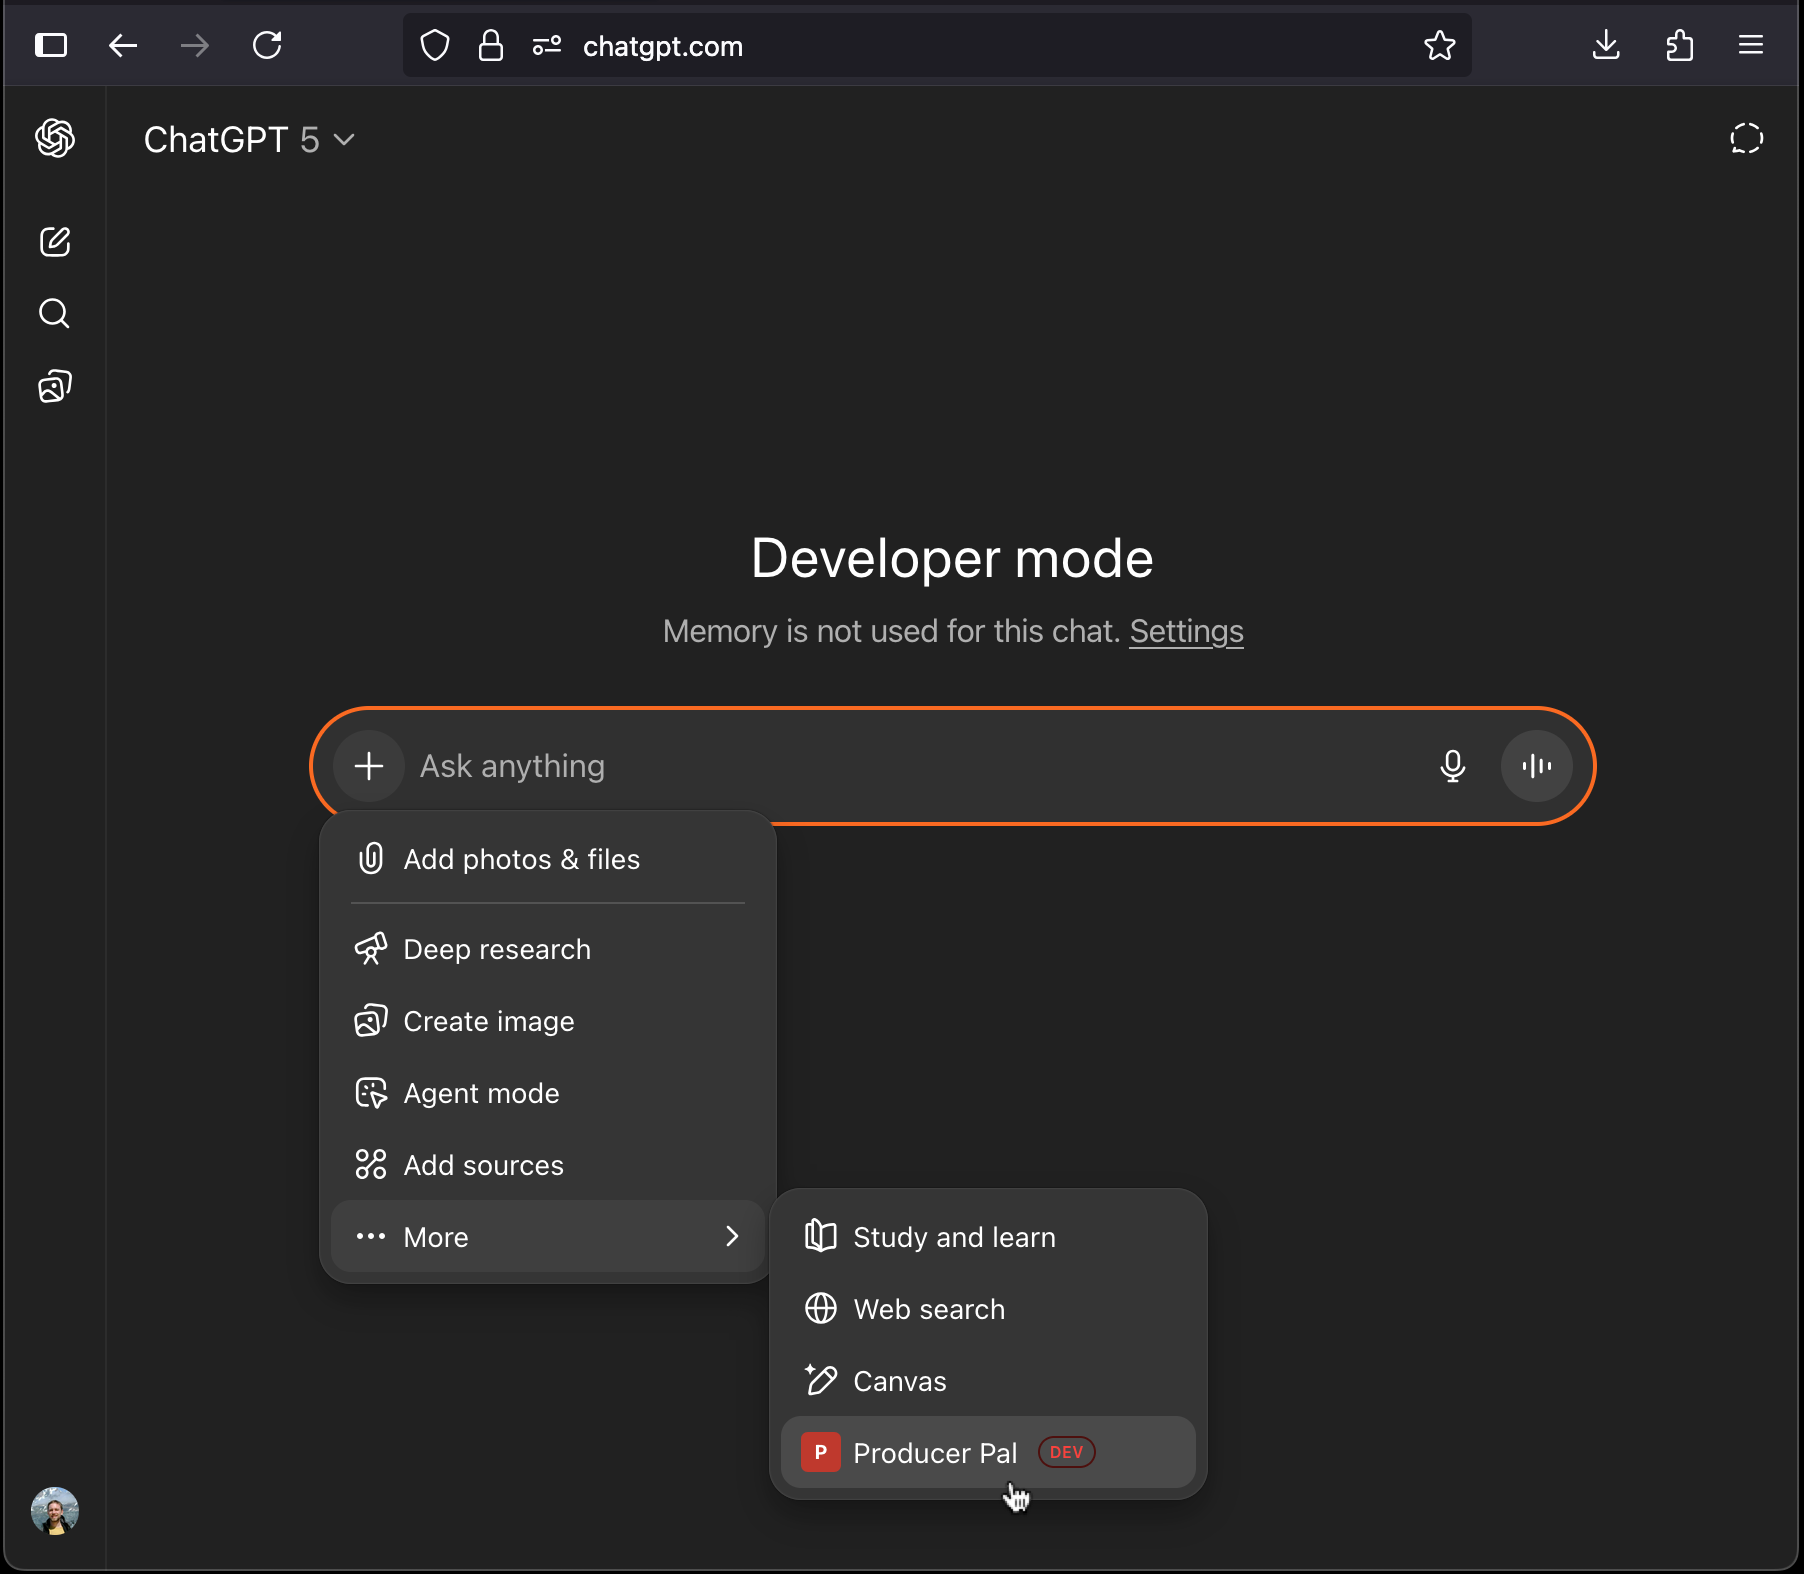
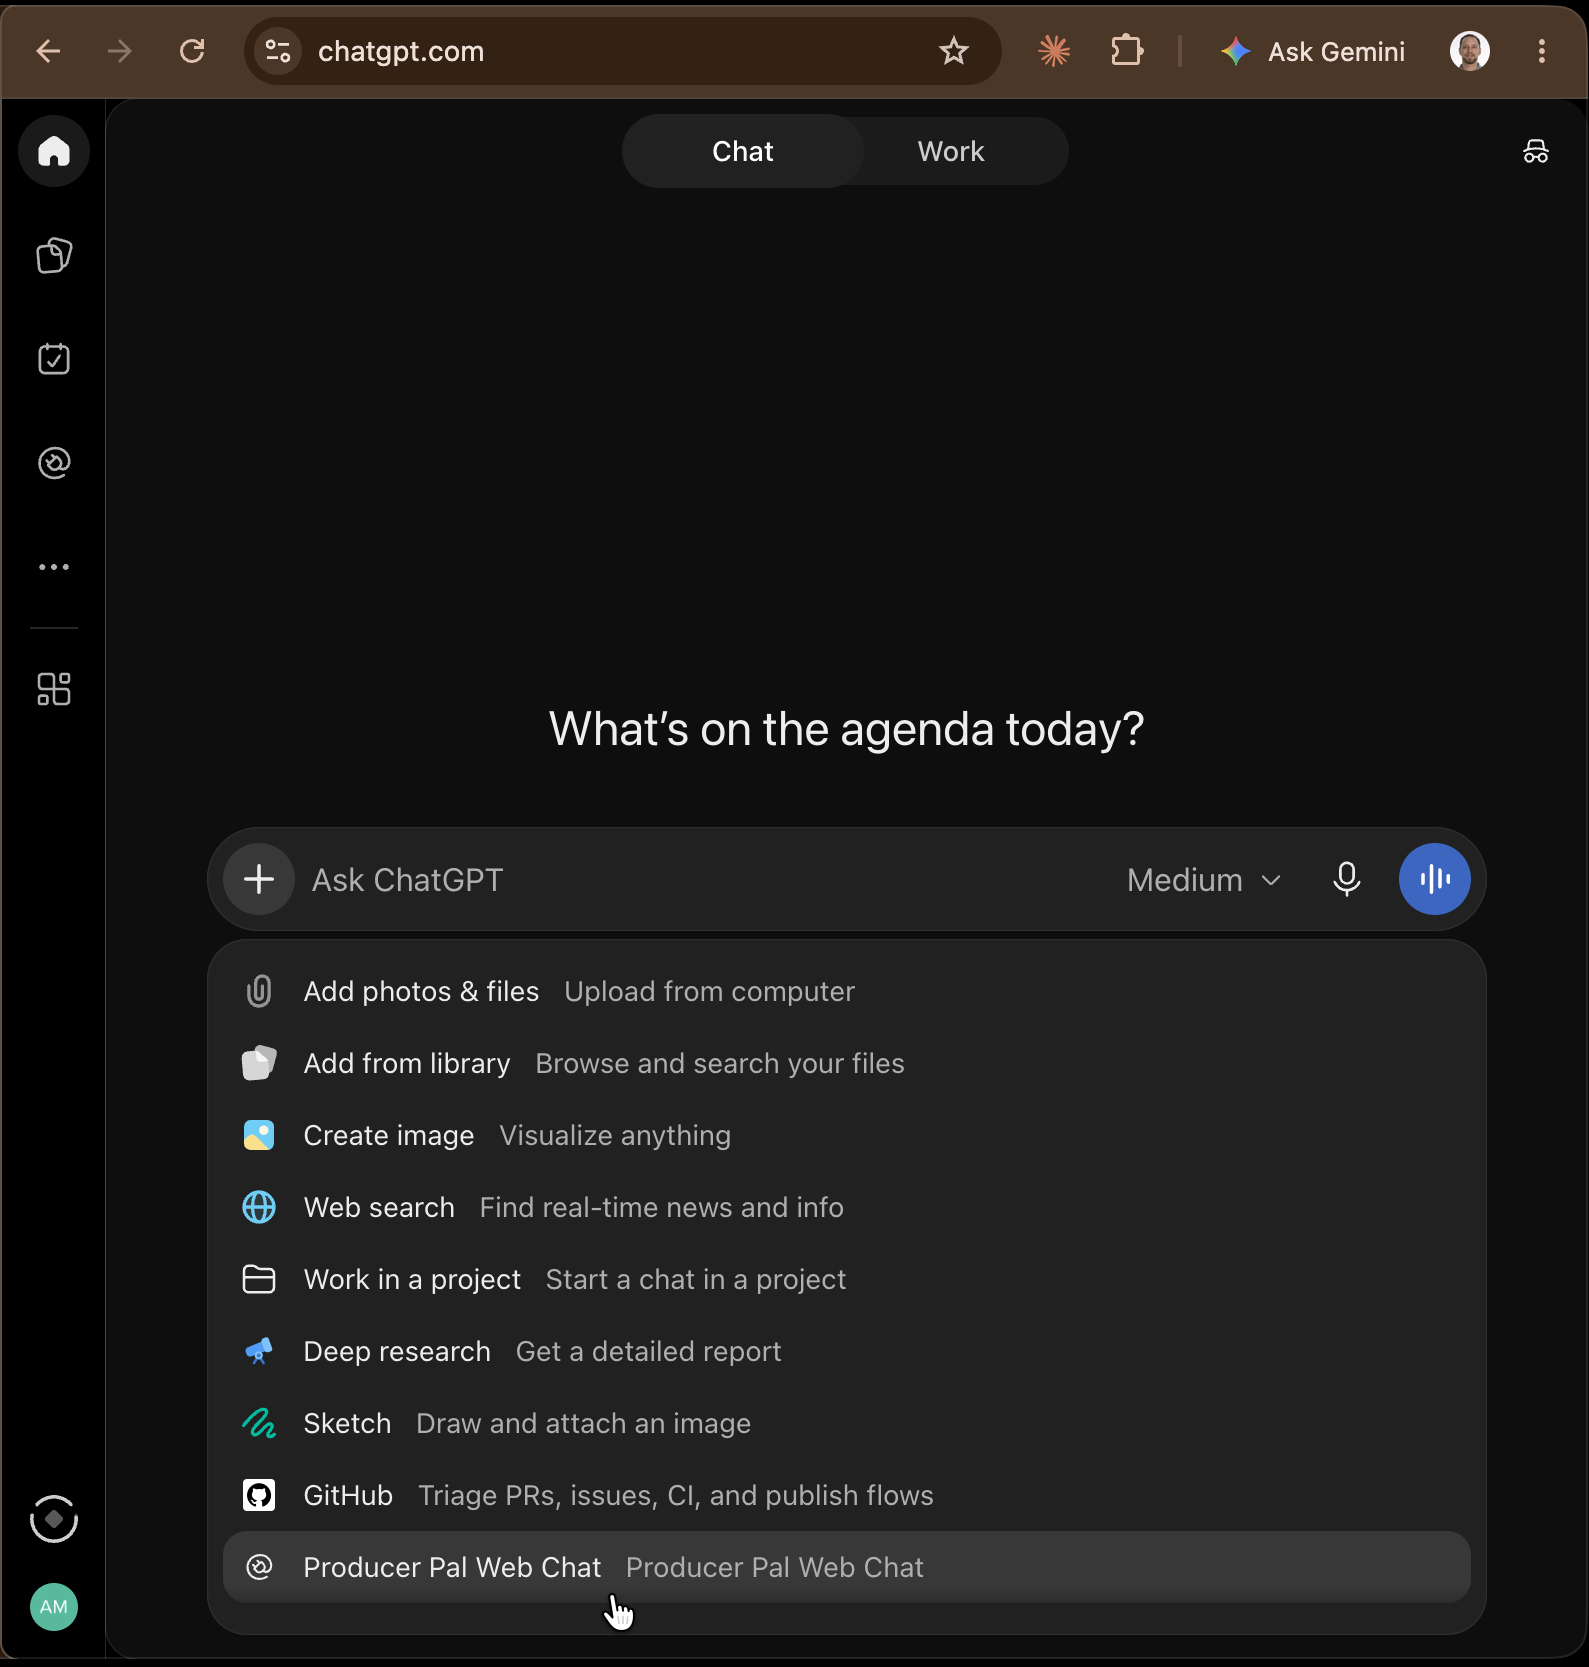
docs: update the ChatGPT Web guide for the Plugins flow
ChatGPT no longer needs Developer Mode: a custom MCP server is added as a
plugin from chatgpt.com/plugins. New screenshots for each step, plus a
fresh Cloudflare tunnel screenshot.

Changed region(s): [[0.0, 0.0, 1.0, 1.0]]

diff --git a/docs/installation/chatgpt-web.md b/docs/installation/chatgpt-web.md
@@ -9,9 +9,8 @@ OpenAI's ChatGPT web app.
 
 <!--@include: ../_partials/live-requirement.md-->
 
-- [ChatGPT account](https://chatgpt.com) (at the time of writing, a paid
-  subscription is required to access the advanced settings needed for this to
-  work)
+- [ChatGPT account](https://chatgpt.com) (a paid subscription may be required to
+  add a custom MCP server)
 - [Web tunnel](./remote-access#web-tunnels) (e.g. Cloudflare or Pinggy)
 
 ## Installation Steps
@@ -33,36 +32,39 @@ will give you a public URL such as `https://abc-xyz.trycloudflare.com`:
 
 ![Cloudflare web tunnel](/img/cloudflare-tunnel.png)
 
-### 3. Enable Developer Mode
+### 3. Add a Custom MCP Server
 
-Go to
-[ChatGPT → Settings → Apps & Connectors → Advanced](https://chatgpt.com/#settings/Connectors/Advanced)
-and enable Developer Mode (this option might not appear for free accounts):
+Go to [ChatGPT → Plugins](https://chatgpt.com/plugins) and choose Add → Add
+custom MCP server:
 
-![ChatGPT developer mode settings](/img/chatgpt-setup.png)
+![Adding a custom MCP server in ChatGPT Plugins](/img/chatgpt-setup.png)
 
-### 4. Create Custom Connector
+Fill in the form and choose "Create as a plugin":
 
-In the [Apps & Connectors](https://chatgpt.com/#settings/Connectors) settings,
-create a custom connector:
-
-- URL: Your tunnel URL + `/mcp` (e.g., `https://abc-xyz.trycloudflare.com/mcp`)
+- Name: Anything you like (e.g. `Producer Pal`)
+- Server URL: Your tunnel URL + `/mcp` (e.g.,
+  `https://abc-xyz.trycloudflare.com/mcp`)
 - No authentication
-- Trust the app
+- Check "I understand and want to continue"
 
-![ChatGPT custom connector setup](/img/chatgpt-setup2.png)
+![ChatGPT custom MCP server form](/img/chatgpt-setup2.png)
 
-### 5. Enable Tools in Conversation
+### 4. Connect the Plugin
 
-Explicitly enable the Producer Pal tools for each conversation where you want to
-use them:
+Connect the new plugin when prompted:
 
-![Enabling Producer Pal tools in ChatGPT](/img/chatgpt-enable-tools.png)
+![Connecting the Producer Pal plugin in ChatGPT](/img/chatgpt-connect.png)
+
+### 5. Select the Plugin in a Conversation
+
+In each conversation where you want to use Producer Pal, select the plugin from
+the + menu:
+
+![Selecting the Producer Pal plugin in ChatGPT](/img/chatgpt-enable-tools.png)
 
 ### 6. Start Using Producer Pal
 
-Start a new chat with "connect to ableton with your producer pal tools" (note
-that ChatGPT tends to need more nudging than "connect to ableton"):
+Start the chat with "connect to ableton":
 
 ![ChatGPT successfully connected to Producer Pal](/img/chatgpt-success.png)
 
